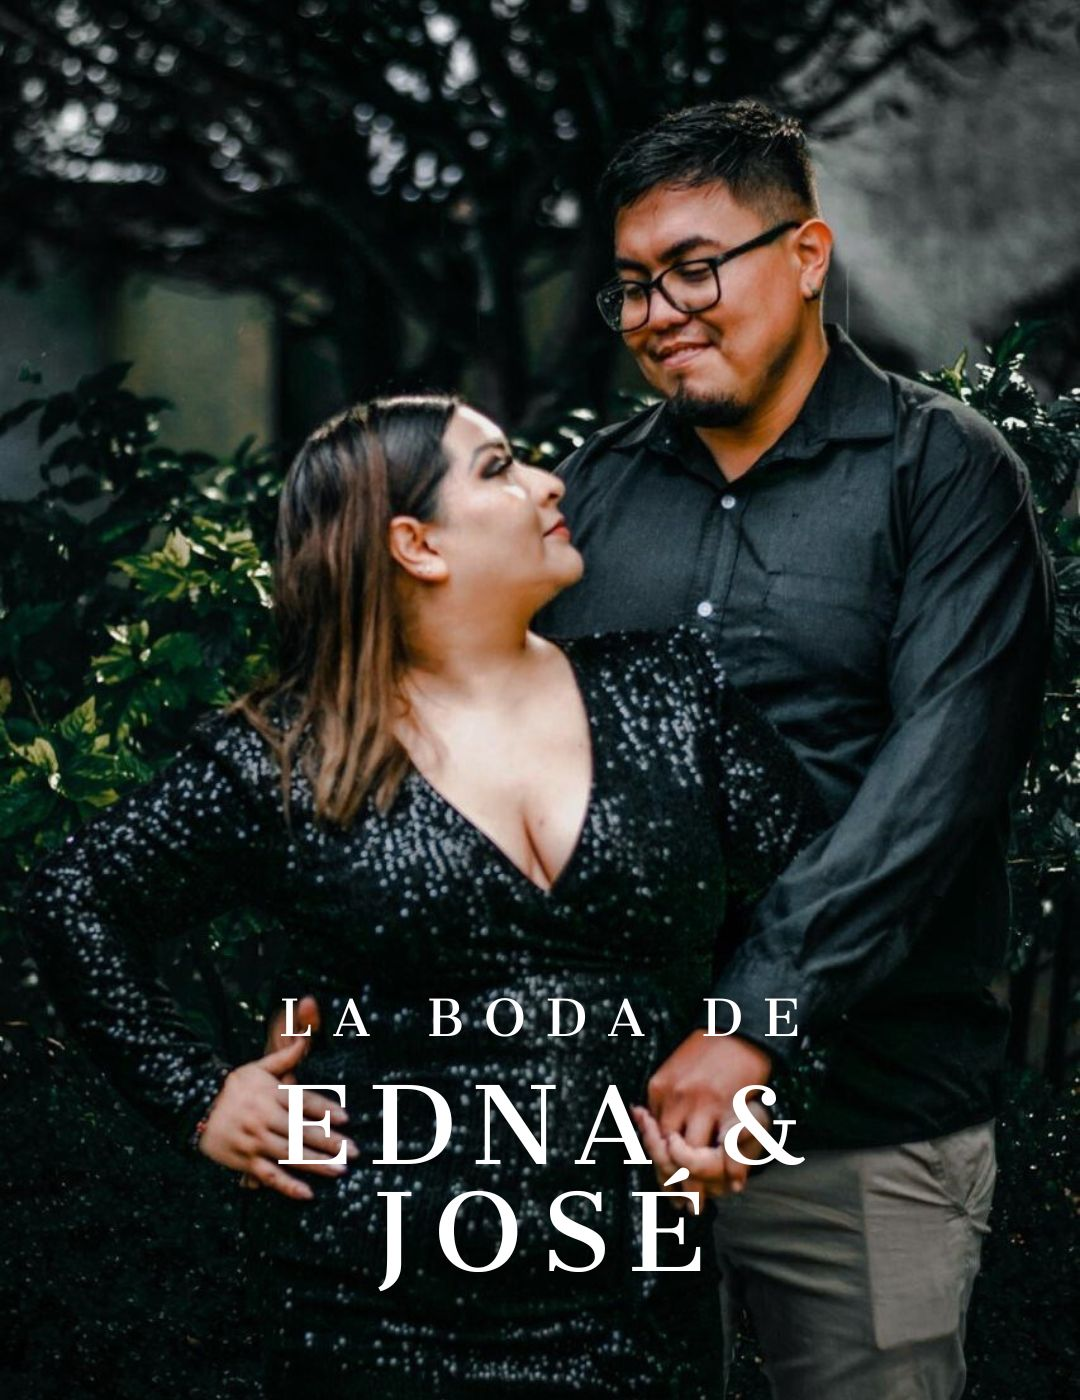
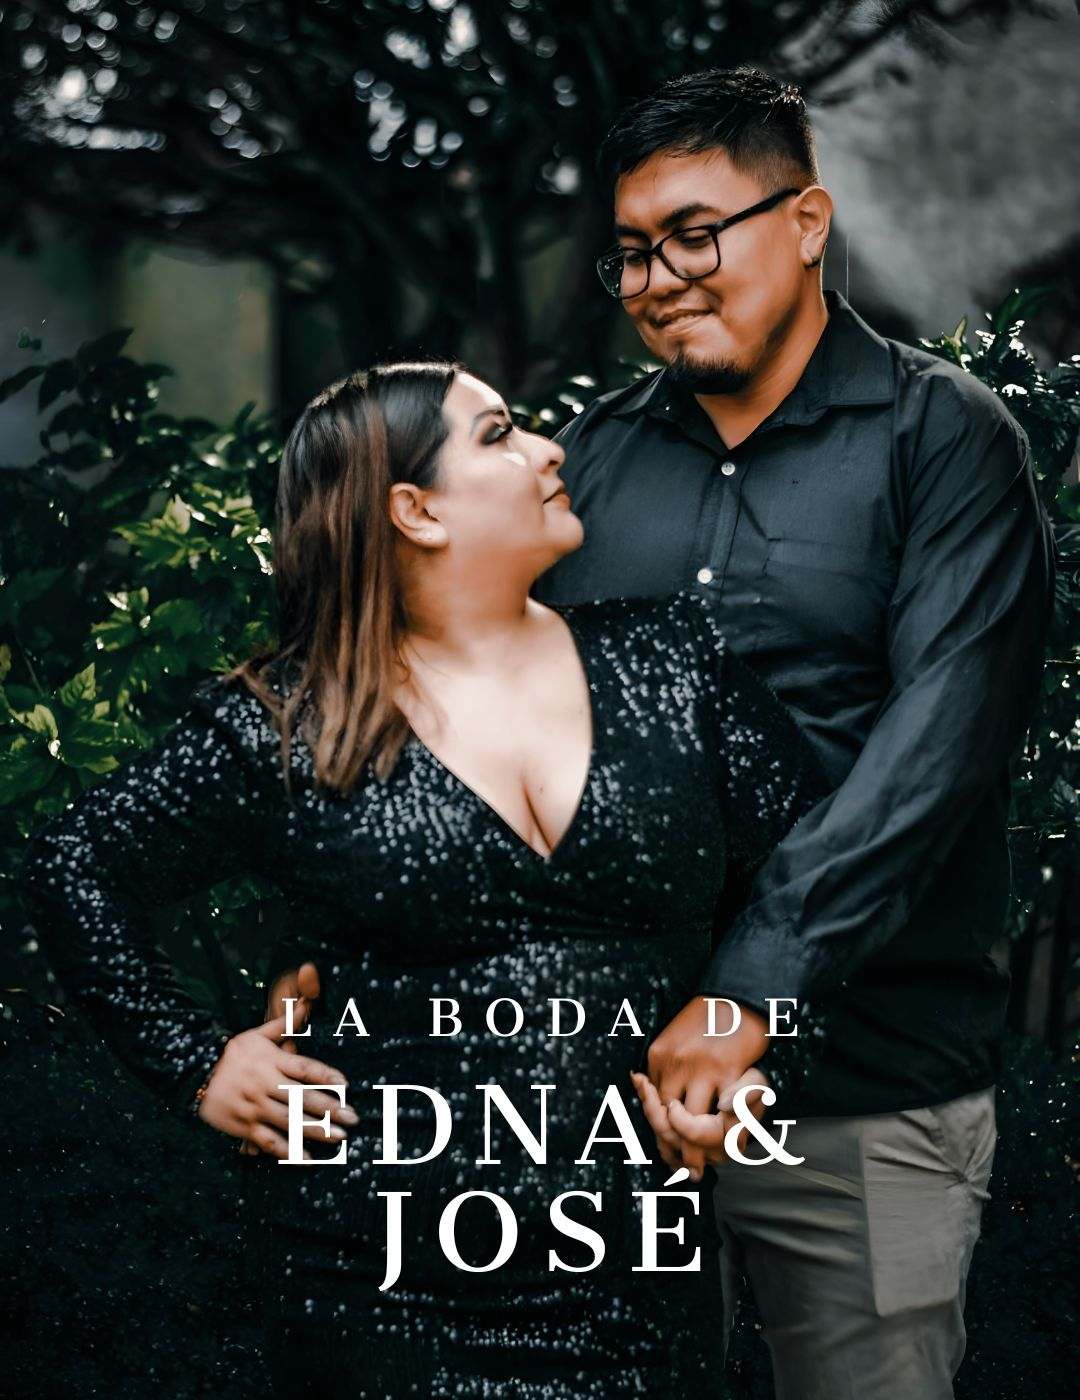
Add files via upload

diff --git a/inicio.html b/inicio.html
@@ -636,12 +636,17 @@
     <p class='textoasistencia col-12 col-lg-12 mb-3 mt-5 ml-1 text-center' style="letter-spacing: 8px; font-size: 18px; color:#252323; font-family: 'Cantata One', serif;"></b></i>POR WHATSAPP<p> 
         <p id="numero" class='textoasistencia col-12 col-lg-12 mb-3 mt-4 ml-1 text-center' style="letter-spacing: 3px; font-size: 13px; color:#252323; font-family: 'Cantata One', serif;"><i class="fa fa-whatsapp mr-1"></i>(618) 309 8300<p>
     <div class=" logos1 row justify-content-center align-items-center mb-3 ml-0" > 
-            <a  href="https://wa.me//526183098300?text=¡Hola!%20Gracias%20por%20la%20invitación.%20Confirmo%20mi%20asistencia%20para%20la%20boda." class="btnWhatsNovios text-center align-items-center col-6 col-md-4" style=""><i class="fas fa-chevron-right mr-2"></i>Enviar mensaje</a> 
+            <a  href="https://wa.me//526183098300?text=¡Hola!%20Gracias%20por%20la%20invitación.%20Confirmo%20mi%20asistencia%20para%20la%20boda.&#128513" class="btnWhatsNovios text-center align-items-center col-6 col-md-4" style=""><i class="fas fa-chevron-right mr-2"></i>Enviar mensaje</a> 
     </div>
     <p id="numero" class='textoasistencia col-12 col-lg-12 mb-3 mt-4 ml-1 text-center' style="letter-spacing: 3px; font-size: 13px; color:#252323; font-family: 'Cantata One', serif;"><i class="fa fa-whatsapp mr-1"></i>(449) 543 8149<p>
-        <div class=" logos1 row justify-content-center align-items-center mb-5 ml-0"> 
-            <a  href="https://wa.me//524495438149?text=¡Hola!%20Gracias%20por%20la%20invitación.%20Confirmo%20mi%20asistencia%20para%20la%20boda." class="btnWhatsNovios text-center align-items-center col-6 col-md-4" style=""><i class="fas fa-chevron-right mr-2"></i>Enviar mensaje</a>
+        <div class=" logos1 row justify-content-center align-items-center mb-3 ml-0"> 
+            <a  href="https://wa.me//524495438149?text=¡Hola!%20Gracias%20por%20la%20invitación.%20Confirmo%20mi%20asistencia%20para%20la%20boda.&#128513" class="btnWhatsNovios text-center align-items-center col-6 col-md-4" style=""><i class="fas fa-chevron-right mr-2"></i>Enviar mensaje</a>
     </div>
+    <p id="numero" class='textoasistencia col-12 col-lg-12 mb-3 mt-4 ml-1 text-center' style="letter-spacing: 3px; font-size: 13px; color:#252323; font-family: 'Cantata One', serif;"><i class="fa fa-whatsapp mr-1"></i>(618) 259 5785<p>
+        <div class=" logos1 row justify-content-center align-items-center mb-5 ml-0"> 
+            <a  href="https://wa.me//526182595785?text=¡Hola!%20Gracias%20por%20la%20invitación.%20Confirmo%20mi%20asistencia%20para%20la%20boda.&#128513" class="btnWhatsNovios text-center align-items-center col-6 col-md-4" style=""><i class="fas fa-chevron-right mr-2"></i>Enviar mensaje</a>
+    </div>
+
 
 <p class='textoasistencia col-12 col-lg-12 mb-3 mt-5 ml-1 text-center' style="letter-spacing: 9px; font-size: 18px; color:#252323; font-family: 'Cantata One', serif;"></b></i>POR LLAMADA<p>
     <p id="numero" class='textoasistencia col-12 col-lg-12 mb-3 mt-4 text-center' style="letter-spacing: 3px; font-size: 13px; color:#252323; font-family: 'Cantata One', serif;"><i class="fas fa-phone-alt  mr-1"></i>(618) 309 8300<p>
@@ -649,8 +654,12 @@
             <a  href="tel:6183098300" class="btnWhatsNovios text-center align-items-center col-5 col-md-3" style=""> <i class="fas fa-chevron-right mr-2"></i>Llamar</a> 
     </div>
     <p id="numero" class='textoasistencia col-12 col-lg-12 mb-3 mt-4 text-center' style="letter-spacing: 3px; font-size: 13px; color:#252323; font-family: 'Cantata One', serif;"><i class="fas fa-phone-alt  mr-1"></i>(449) 543 8149<p>
-        <div class=" logos1 row justify-content-center align-items-center mb-5 ml-0"> 
+        <div class=" logos1 row justify-content-center align-items-center mb-3 ml-0"> 
             <a  href="tel:4495438149" class="btnWhatsNovios text-center align-items-center col-5 col-md-3" style=""> <i class="fas fa-chevron-right mr-2"></i>Llamar</a>  
+    </div>
+    <p id="numero" class='textoasistencia col-12 col-lg-12 mb-3 mt-4 text-center' style="letter-spacing: 3px; font-size: 13px; color:#252323; font-family: 'Cantata One', serif;"><i class="fas fa-phone-alt  mr-1"></i>(618) 259 5785<p>
+        <div class=" logos1 row justify-content-center align-items-center mb-5 ml-0"> 
+            <a  href="tel:6182595785" class="btnWhatsNovios text-center align-items-center col-5 col-md-3" style=""> <i class="fas fa-chevron-right mr-2"></i>Llamar</a>  
     </div>
     <h2 class="respetuosamente col-12 col-lg-12 mt-5 mb-5 text-center" style="font-size: 18px; color:#001f3b;  font-family: 'Playfair Display', serif;">Recuerda que para accesar al evento deberás mostrar tu invitación digital o física.</b></h2>
 
@@ -658,7 +667,7 @@
     <div class=" logos1 row justify-content-center align-items-center mb-5"> 
         <a  href="https://wa.me//526181695304?text=¡Hola!%20Tengo%20una%20duda%20sobre%20el%20evento." class="btnWhats text-center align-items-center col-6 col-md-4 ml-3" style=""><b><i class="fa fa-whatsapp mr-1"></b></i>WhatsApp</a> 
     </div>  <br>
-     <h4 class='dondeyCuando col-12 col-lg-12 text-center' style="color:#252323; font-family: 'Updock', cursive; font-size:60px">¡No faltes!</h4> <br><br> 
+     <h4 class='dondeyCuando col-12 col-lg-12 text-center' style="color:#001f3b; font-family: 'Updock', cursive; font-size:60px">¡No faltes!</h4> <br><br> 
 </div>
 <div class="row justify-content-center" style="background-color: white">
                   

diff --git a/css/demo003.css b/css/demo003.css
@@ -21,7 +21,7 @@ background-color: white;
 }
 .imagenPortada{
 
-  background-attachment: fixed;
+  background-attachment: scroll;
 }
 
 .portada{
@@ -32,9 +32,9 @@ margin-bottom: 0px;
 position: center;
 z-index: 99px;
 background-size: 100%; 
-background-image: url(../img/A&E-1346.jpeg); 
+background-image: url(../img/A&E-1346.png); 
 position: relative; 
-background-attachment: fixed;
+background-attachment: scroll;
 }
 
 .contenido{
@@ -1526,9 +1526,9 @@ margin-bottom: 0px;
 position: center;
 z-index: 99px;
 
-background-image: url(../img/A&E-1346.jpeg); 
+background-image: url(../img/A&E-1346.png); 
 position: relative; 
-background-attachment: fixed;
+background-attachment: scroll;
 background-repeat: no-repeat;
 background-size: 35%;
 background-position: center;
@@ -2366,9 +2366,9 @@ margin-bottom: 0px;
 position: center;
 z-index: 99px;
 
-background-image: url(../img/A&E-1346.jpeg); 
+background-image: url(../img/A&E-1346.png); 
 position: relative; 
-background-attachment: fixed;
+background-attachment: scroll;
 background-repeat: no-repeat;
 background-size: 50%;
 background-position-x: center;
@@ -2410,9 +2410,9 @@ margin-bottom: 0px;
 position: center;
 z-index: 99px;
 
-background-image: url(../img/A&E-1346.jpeg); 
+background-image: url(../img/A&E-1346.png); 
 position: relative; 
-background-attachment: fixed;
+background-attachment: scroll;
 background-repeat: no-repeat;
 background-size: 50%;
 background-position-x: center;
@@ -2454,9 +2454,9 @@ margin-bottom: 0px;
 position: center;
 z-index: 99px;
 
-background-image: url(../img/A&E-1346.jpeg); 
+background-image: url(../img/A&E-1346.png); 
 position: relative; 
-background-attachment: fixed;
+background-attachment: scroll;
 background-repeat: no-repeat;
 background-size: 40%;
 background-position-x: center;
@@ -2498,9 +2498,9 @@ margin-bottom: 0px;
 position: center;
 z-index: 99px;
 
-background-image: url(../img/A&E-1346.jpeg); 
+background-image: url(../img/A&E-1346.png); 
 position: relative; 
-background-attachment: fixed;
+background-attachment: scroll;
 background-repeat: no-repeat;
 background-size: 50%;
 background-position-x: center;
@@ -2542,9 +2542,9 @@ margin-bottom: 0px;
 position: center;
 z-index: 99px;
 
-background-image: url(../img/A&E-1346.jpeg); 
+background-image: url(../img/A&E-1346.png); 
 position: relative; 
-background-attachment: fixed;
+background-attachment: scroll;
 background-repeat: no-repeat;
 background-size: 50%;
 background-position-x: center;
